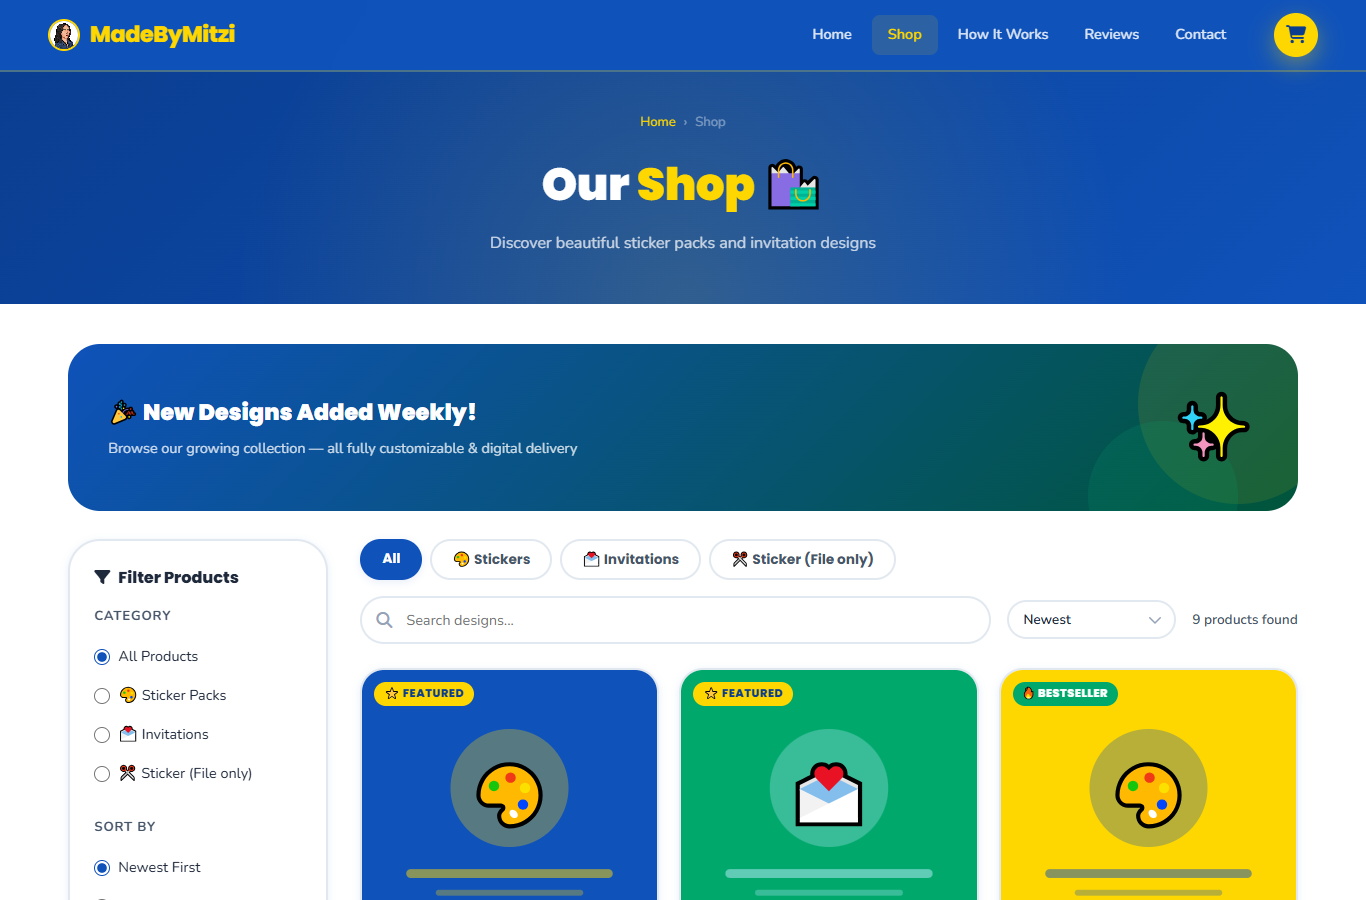
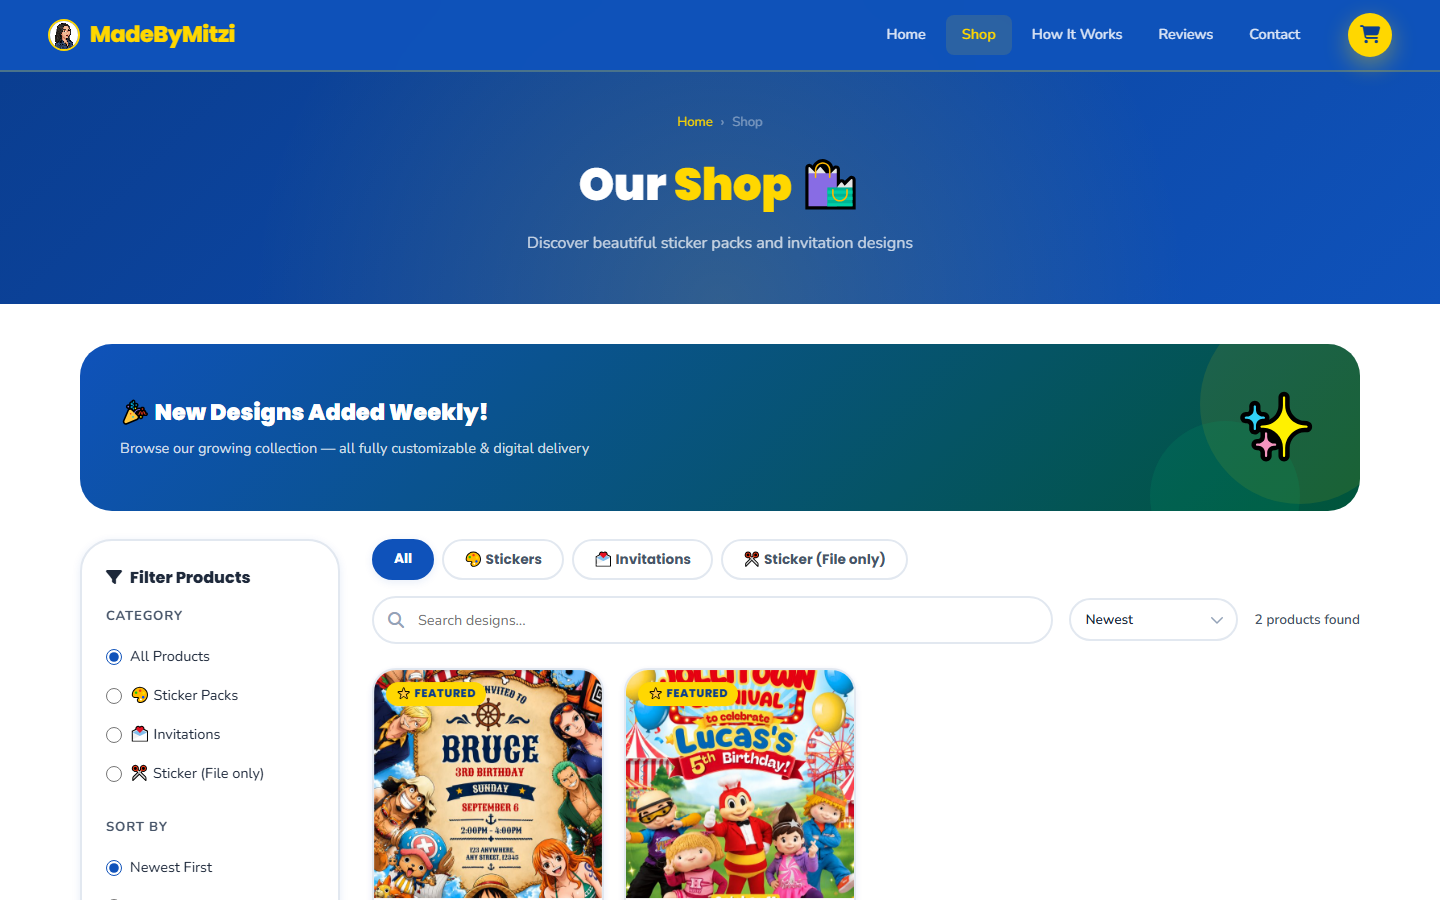
chore(assets): capture and update all 12 production screenshots and README visual showcase

diff --git a/README.md b/README.md
@@ -182,14 +182,34 @@ Shopee-style cart with live subtotal calculation, coupon discounts (`MITZI10` / 
 ![Shopping Cart](screenshots/06_checkout_gcash.png)
 
 ### 7. Real-Time Admin Dashboard
-Dedicated admin suite at `/admin` for tracking orders, reviewing earnings, approving payments, inspecting customer receipts, adding/editing products, and updating payment QR codes.
+Dedicated admin suite at `/admin` for tracking orders, reviewing verified earnings, inspecting customer receipts, adding/editing products, and updating payment QR codes.
 
 ![Admin Portal](screenshots/07_admin_dashboard.png)
 
-### 8. Admin Portal Login & Fast Authentication
-Secure portal login with Google Preset authentication for the store owner, preventing unauthorized access.
+### 8. Order Management & Payment Verification
+Centralized order inspection interface where the store owner reviews uploaded GCash receipts, verifies transaction numbers, and approves digital asset delivery with one click.
 
-![Admin Login Portal](screenshots/08_admin_login_portal.png)
+![Admin Orders](screenshots/08_admin_orders.png)
+
+### 9. Product Catalog & Inventory Management
+Live inventory management allowing the admin to add new sticker packs or invitation templates, manage pricing, toggle active status, and link Canva editable templates.
+
+![Admin Products](screenshots/09_admin_products.png)
+
+### 10. Admin Configuration & Brevo / Cloud Settings
+Control center for updating GCash numbers, bank accounts, Brevo automated email dispatch keys, and Google Cloud Firestore database synchronization.
+
+![Admin Settings](screenshots/10_admin_settings.png)
+
+### 11. Customer Official Digital Receipt & Status Tracker
+Interactive branded receipt page featuring a live verification stepper (`Pending` ➔ `Confirmed`), reference number tracking, and instant buttons to access Canva templates and downloadable PDFs.
+
+![Customer Digital Receipt](screenshots/11_customer_receipt.png)
+
+### 12. Secure Admin Login Portal with Google Preset
+Multi-tiered authentication portal featuring encrypted credentials verification, brute-force rate-limiting, and 1-click **Sign In with Google (Mitzi Preset)** for authorized store owner devices.
+
+![Admin Login Portal](screenshots/12_admin_login.png)
 
 ---
 
